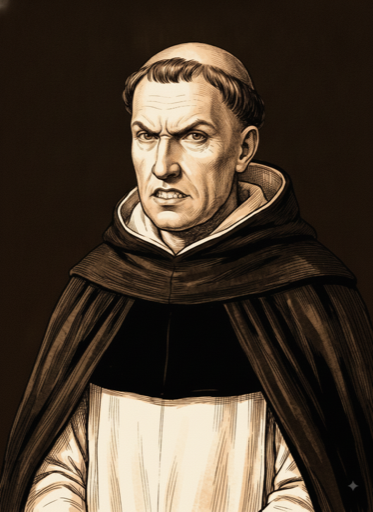
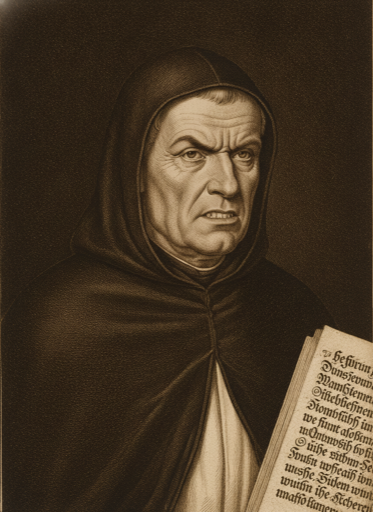
Fix portrait distinctiveness for #569's three deferred clusters
Grounds abulafia, al-hallaj, arabi, khaldun, eckhart, and llull in
concrete biographical props/traits, the same pattern #558 used for its
severe cluster. Regenerates all three reactions per member, fixing two
recurring failure modes along the way: a vignette regression that
survived pre-existing anti-vignette wording (fixed with a more
explicit clause plus a retry for arabi), and a `thinking` reaction
reading too close to baseline for al-hallaj, arabi, and eckhart (fixed
with an explicit head-turn pose, with eckhart needing a second pass).

Closes #569

diff --git a/scripts/fix-569-portrait-distinctiveness.js b/scripts/fix-569-portrait-distinctiveness.js
@@ -1,0 +1,164 @@
+'use strict';
+
+// #569 — the three moderate-severity clusters #558 identified but deferred
+// (see that issue's changelog entry, STYLE_GUIDE.md, 2026-09-10): abulafia/
+// al-hallaj, arabi/khaldun, eckhart/llull. Same root cause as #558 — BATCH-
+// 1-PROMPTS.md's "Character study" tier template gives most of these six
+// members only attire + a mood adjective ("turban and formal robes...
+// composed expression") with no physical/facial or biographical detail to
+// differentiate on, so members sharing an era/profession/attire converge.
+//
+// Scoping pass (done before writing this script, not just asserted): pulled
+// all 38 base portraits and looked at these six side-by-side plus their
+// immediate roster neighbors. arabi/khaldun was the clearest case — same
+// turban wrap, same pose, same shoulder drape, near-identical structure.
+// abulafia/al-hallaj already read somewhat apart (skullcap+hood-up vs.
+// loose hair+hood-down) but still share the generic "old bearded ascetic in
+// a dark robe" register the fix below sharpens into two actually-different
+// biographical registers. eckhart/llull share a tonsure+clean-shaven+hood
+// silhouette the fix below breaks with a concrete unique prop each. Bruno
+// was checked too (the issue names him only as color for why Eckhart's
+// register reads generic) but already has a cap+beard silhouette distinct
+// from both Eckhart and Llull — left untouched, not part of this fix.
+//
+// Same device WAVE-4-PROMPTS.md established for character-study figures
+// with no photographic likeness (Böhme's awl, Paracelsus's sword hilt): one
+// concrete prop or physical detail grounded in real, documented biography,
+// not invented —
+//   - abulafia: a Hebrew-letter-permutation scroll, for the founder of
+//     "prophetic" Kabbalah's signature meditative technique (Chokhmat
+//     ha-Tzeruf).
+//   - al-hallaj: the patched wool ascetic's cloak (khirqa/muraqqa) Sufi
+//     mendicants wore as a mark of voluntary poverty, replacing the plain
+//     generic robe — distinct register from abulafia's seated scholar.
+//   - arabi: rendered elderly and inwardly absorbed (he wrote his major
+//     visionary works and died at 75 in Damascus) rather than the young,
+//     outward-facing figure in the current portrait — a wandering mystic's
+//     register.
+//   - khaldun: a seal-ring/sealed scroll of appointment, for the career
+//     statesman who served as Grand Qadi of Cairo and personally negotiated
+//     with Tamerlane outside besieged Damascus in 1401 — a worldly
+//     official's register, the deliberate opposite of arabi's.
+//   - eckhart: an open manuscript page in Middle High German (not Latin) —
+//     he broke scholastic convention by preaching/writing in the vernacular,
+//     the same "lacks a concrete detail" gap the issue named explicitly.
+//   - llull: a diagram of his own "Ars Magna" combinatorial wheel —
+//     concentric lettered circles, the device he actually invented and is
+//     uniquely known for, a stronger anchor than eckhart's manuscript.
+//
+// Composition suffix carries #558's own anti-vignette correction
+// (fix-558-vignette-fixup.js) from the start, rather than repeating that
+// regression here.
+//
+// Same structure as fix-558-portrait-distinctiveness.js: generate a new
+// base, then regenerate the three reactions anchored to the NEW base
+// candidate (not yet promoted). Candidates land in
+// public/portraits/candidates/ for human review — this script never
+// promotes.
+//
+// Usage: node scripts/fix-569-portrait-distinctiveness.js [memberId ...]
+//   (no args runs all six; pass one or more of abulafia/al-hallaj/arabi/
+//   khaldun/eckhart/llull to run a subset)
+
+require('dotenv').config();
+const fs = require('fs');
+const path = require('path');
+const { generatePortraitImage, buildReactionPrompt, REACTION_TYPES } = require('../src/portrait-generation');
+
+const ROOT = path.join(__dirname, '..');
+const PORTRAITS_DIR = path.join(ROOT, 'public', 'portraits');
+const CANDIDATES_DIR = path.join(PORTRAITS_DIR, 'candidates');
+
+// Same anti-vignette wording #558's vignette follow-up corrected into the
+// base prompt — carried forward here from the start.
+const COMPOSITION_SUFFIX =
+  'Head-and-shoulders, period-appropriate dress, plain dark unornamented background — no scene elements, no furniture, no bookshelves, no architectural detail. The background must be a single flat dark tone filling the frame completely edge to edge — no vignette, no radial gradient, no lightening or spotlight halo toward the corners or edges; the corners must be exactly as dark as the area immediately around the subject. Visible linework and texture (engraving/ink-wash register), not photorealistic or cartoon/flat-vector. Limited warm sepia/candlelit palette. Portrait orientation (taller than wide).';
+
+const MEMBERS = {
+  abulafia: {
+    subject:
+      "Warm, etching-adjacent portrait of Abraham Abulafia, Sephardi Kabbalist, 13th century — head-and-shoulders, plain dark robe and skullcap appropriate to a medieval Jewish scholar of Aragon/Castile, an elderly, deeply lined, ascetic face. A parchment scroll inscribed with a circular arrangement of Hebrew letters held or visible at the frame's edge — a concrete trade marker for the founder of 'prophetic' Kabbalah's signature technique of Hebrew letter permutation (Chokhmat ha-Tzeruf), not a generic old scholar. Intense, inward, unflinching expression.",
+  },
+  'al-hallaj': {
+    subject:
+      "Warm, etching-adjacent portrait of Husayn ibn Mansur al-Hallaj, Persian Sufi mystic, 9th/10th century — head-and-shoulders, a coarse, visibly patched woolen cloak (the muraqqa/khirqa worn by wandering Sufi ascetics as a mark of voluntary poverty) rather than a plain scholar's robe, unbound tangled hair and beard consistent with an itinerant mendicant rather than a settled cleric. Direct, unflinching, ecstatic-adjacent gaze — the bearing of a man who declared 'Ana al-Haqq' ('I am the Truth') and would not recant it.",
+  },
+  arabi: {
+    subject:
+      "Warm, etching-adjacent portrait of Muhyiddin Ibn Arabi, Andalusian-then-Damascene Sufi mystic and philosopher, early 13th century — head-and-shoulders, simple turban and a plain mystic's robe (not the more formal, structured dress of a court official), an elderly, gaunt, deeply inward face — he wrote his major visionary works late in life and died at 75 in Damascus, an old man given to solitary mystical absorption rather than public life. Eyes slightly unfocused, gaze turned inward past the viewer rather than meeting it directly — mid-vision, not mid-conversation.",
+  },
+  khaldun: {
+    subject:
+      "Warm, etching-adjacent portrait of Ibn Khaldun, North African/Andalusian historian and statesman, 14th century — head-and-shoulders, the more formal, structured turban and richly bordered robes of a Mamluk-era chief judge (he served as Grand Qadi of the Maliki school in Cairo), a heavy official seal-ring or a sealed scroll of appointment visible at the frame's edge — a concrete trade marker for a career statesman and diplomat who personally negotiated with Tamerlane outside besieged Damascus in 1401, not a generic robed scholar. Composed, shrewd, worldly expression, direct engagement with the viewer rather than inward absorption.",
+  },
+  eckhart: {
+    subject:
+      "Warm, etching-adjacent portrait of Meister Eckhart, German Dominican friar and mystical theologian, early 14th century — head-and-shoulders, Dominican habit (white tunic, black scapular and cappa, hood), the bearing of a senior churchman who administered an entire province (Vicar-General of Bohemia) rather than a cloistered contemplative. An open manuscript page bearing visible Middle High German script (not Latin) held or visible at the frame's edge — a concrete trade marker for a scholastic theologian who broke convention by preaching and writing in vernacular German rather than the Latin of his order. Composed, level, unflinching gaze, appropriate to a man who defended his propositions before an inquisition rather than recanting.",
+  },
+  llull: {
+    subject:
+      "Warm, etching-adjacent portrait of Ramon Llull, Majorcan philosopher and mystic, 13th/14th century — head-and-shoulders, plain religious tertiary's habit (post-conversion, not courtly dress), weathered elderly face. A diagram of his own combinatorial 'Ars Magna' — concentric wheels marked with lettered divisions — sketched or visible at the frame's edge, a concrete trade marker unique to him among the set, the device he actually invented to mechanically generate theological and philosophical propositions. Contemplative, faintly evangelistic expression, the bearing of a man who tried repeatedly to carry this system in person to the Islamic world.",
+  },
+};
+
+function buildBasePrompt(id) {
+  return `${MEMBERS[id].subject} ${COMPOSITION_SUFFIX}`;
+}
+
+async function generateMember(apiKey, id) {
+  console.log(`[${id}] Generating distinctiveness-revised base portrait...`);
+  const baseBuffer = await generatePortraitImage({ apiKey, prompt: buildBasePrompt(id) });
+  fs.writeFileSync(path.join(CANDIDATES_DIR, `${id}.png`), baseBuffer);
+  console.log(`[${id}]   done (${baseBuffer.length} bytes) -> public/portraits/candidates/${id}.png`);
+
+  const baseReferenceImages = [{ mimeType: 'image/png', data: baseBuffer }];
+  for (const reaction of REACTION_TYPES) {
+    const candidateId = `${id}-${reaction}`;
+    process.stdout.write(`[${id}] Generating ${reaction}... `);
+    const buffer = await generatePortraitImage({
+      apiKey,
+      prompt: buildReactionPrompt(reaction, id),
+      referenceImages: baseReferenceImages,
+    });
+    fs.writeFileSync(path.join(CANDIDATES_DIR, `${candidateId}.png`), buffer);
+    console.log(`done (${buffer.length} bytes) -> public/portraits/candidates/${candidateId}.png`);
+  }
+}
+
+async function main() {
+  const apiKey = process.env.GEMINI_API_KEY;
+  if (!apiKey) {
+    console.error('GEMINI_API_KEY not set — cannot generate real portrait candidates.');
+    process.exit(1);
+  }
+
+  const requested = process.argv.slice(2);
+  const ids = requested.length > 0 ? requested : Object.keys(MEMBERS);
+  for (const id of ids) {
+    if (!MEMBERS[id]) {
+      console.error(`Unknown member id: ${id} (expected one of ${Object.keys(MEMBERS).join(', ')})`);
+      process.exit(1);
+    }
+  }
+
+  fs.mkdirSync(CANDIDATES_DIR, { recursive: true });
+
+  for (const id of ids) {
+    await generateMember(apiKey, id);
+  }
+
+  console.log(
+    '\nNext: review each candidate in public/portraits/candidates/ against the rest of the roster and STYLE_GUIDE.md, then promote with:'
+  );
+  for (const id of ids) {
+    console.log(`  node scripts/promote-portrait.js ${id} --force`);
+    for (const reaction of REACTION_TYPES) {
+      console.log(`  node scripts/promote-portrait.js ${id}-${reaction} --force`);
+    }
+  }
+}
+
+main().catch(err => {
+  console.error('Script error:', err);
+  process.exit(1);
+});

diff --git a/scripts/fix-569-vignette-fixup.js b/scripts/fix-569-vignette-fixup.js
@@ -1,0 +1,114 @@
+'use strict';
+
+// #569 follow-up: al-hallaj and arabi's regenerated base portraits (from
+// fix-569-portrait-distinctiveness.js) came back with a pronounced radial
+// vignette — a brighter halo hugging the head/shoulders that darkens toward
+// all four corners. Confirmed by side-by-side comparison against the rest of
+// the roster and against this same script's other four #569 members
+// (abulafia, khaldun, eckhart, llull all came back flat). The vignette
+// propagated into all three reaction images for both members too, via the
+// same referenceImages/match-the-background mechanism #558's vignette-fixup
+// documented (fix-558-vignette-fixup.js).
+//
+// Notable difference from #558's case: fix-569-portrait-distinctiveness.js's
+// COMPOSITION_SUFFIX already carried an anti-vignette clause from the start
+// (copied verbatim from fix-558-vignette-fixup.js's fix) — unlike #558's
+// first pass, which was missing the clause entirely. It still wasn't
+// reliable for 2 of 6 members here, so this isn't a "clause was missing"
+// bug, just generation variance the clause doesn't fully suppress. Re-reading
+// the old wording, it's also arguably ambiguous about the actual failure
+// shape: it bans "lightening... toward the corners," but the real defect is
+// the opposite direction — a brighter halo AROUND THE SUBJECT that darkens
+// OUTWARD toward the corners, i.e. a classic photographic vignette. The
+// clause below restates the same ban in that explicit shape instead of
+// relying on the word "vignette" alone to carry it.
+//
+// Same subject text as fix-569-portrait-distinctiveness.js, unchanged — this
+// is a background-only regeneration, not a re-grounding.
+//
+// Usage: node scripts/fix-569-vignette-fixup.js [memberId ...]
+//   (no args runs both; pass al-hallaj and/or arabi to run a subset)
+
+require('dotenv').config();
+const fs = require('fs');
+const path = require('path');
+const { generatePortraitImage, buildReactionPrompt, REACTION_TYPES } = require('../src/portrait-generation');
+
+const ROOT = path.join(__dirname, '..');
+const CANDIDATES_DIR = path.join(ROOT, 'public', 'portraits', 'candidates');
+
+const COMPOSITION_SUFFIX =
+  "Head-and-shoulders, period-appropriate dress, plain dark unornamented background — no scene elements, no furniture, no bookshelves, no architectural detail. The background must be a single flat, uniformly dark tone filling the frame completely, corner to corner. Do not render a vignette, radial gradient, or spotlight/halo effect of any kind — specifically, no brighter glow or lightening immediately behind or around the subject's head and shoulders that fades to a darker tone toward the corners or edges. Every region of the background, from directly behind the subject to all four corners, must be the same flat dark value; the corners must not be darker than the area around the subject. Visible linework and texture (engraving/ink-wash register), not photorealistic or cartoon/flat-vector. Limited warm sepia/candlelit palette. Portrait orientation (taller than wide).";
+
+const MEMBERS = {
+  'al-hallaj': {
+    subject:
+      "Warm, etching-adjacent portrait of Husayn ibn Mansur al-Hallaj, Persian Sufi mystic, 9th/10th century — head-and-shoulders, a coarse, visibly patched woolen cloak (the muraqqa/khirqa worn by wandering Sufi ascetics as a mark of voluntary poverty) rather than a plain scholar's robe, unbound tangled hair and beard consistent with an itinerant mendicant rather than a settled cleric. Direct, unflinching, ecstatic-adjacent gaze — the bearing of a man who declared 'Ana al-Haqq' ('I am the Truth') and would not recant it.",
+  },
+  arabi: {
+    subject:
+      "Warm, etching-adjacent portrait of Muhyiddin Ibn Arabi, Andalusian-then-Damascene Sufi mystic and philosopher, early 13th century — head-and-shoulders, simple turban and a plain mystic's robe (not the more formal, structured dress of a court official), an elderly, gaunt, deeply inward face — he wrote his major visionary works late in life and died at 75 in Damascus, an old man given to solitary mystical absorption rather than public life. Eyes slightly unfocused, gaze turned inward past the viewer rather than meeting it directly — mid-vision, not mid-conversation.",
+  },
+};
+
+function buildBasePrompt(id) {
+  return `${MEMBERS[id].subject} ${COMPOSITION_SUFFIX}`;
+}
+
+async function generateMember(apiKey, id) {
+  console.log(`[${id}] Regenerating base portrait with strengthened anti-vignette background...`);
+  const baseBuffer = await generatePortraitImage({ apiKey, prompt: buildBasePrompt(id) });
+  fs.writeFileSync(path.join(CANDIDATES_DIR, `${id}.png`), baseBuffer);
+  console.log(`[${id}]   done (${baseBuffer.length} bytes) -> public/portraits/candidates/${id}.png`);
+
+  const baseReferenceImages = [{ mimeType: 'image/png', data: baseBuffer }];
+  for (const reaction of REACTION_TYPES) {
+    const candidateId = `${id}-${reaction}`;
+    process.stdout.write(`[${id}] Generating ${reaction}... `);
+    const buffer = await generatePortraitImage({
+      apiKey,
+      prompt: buildReactionPrompt(reaction, id),
+      referenceImages: baseReferenceImages,
+    });
+    fs.writeFileSync(path.join(CANDIDATES_DIR, `${candidateId}.png`), buffer);
+    console.log(`done (${buffer.length} bytes) -> public/portraits/candidates/${candidateId}.png`);
+  }
+}
+
+async function main() {
+  const apiKey = process.env.GEMINI_API_KEY;
+  if (!apiKey) {
+    console.error('GEMINI_API_KEY not set — cannot generate real portrait candidates.');
+    process.exit(1);
+  }
+
+  const requested = process.argv.slice(2);
+  const ids = requested.length > 0 ? requested : Object.keys(MEMBERS);
+  for (const id of ids) {
+    if (!MEMBERS[id]) {
+      console.error(`Unknown member id: ${id} (expected one of ${Object.keys(MEMBERS).join(', ')})`);
+      process.exit(1);
+    }
+  }
+
+  fs.mkdirSync(CANDIDATES_DIR, { recursive: true });
+
+  for (const id of ids) {
+    await generateMember(apiKey, id);
+  }
+
+  console.log(
+    '\nNext: review each candidate in public/portraits/candidates/ against the rest of the roster, then promote with:'
+  );
+  for (const id of ids) {
+    console.log(`  node scripts/promote-portrait.js ${id} --force`);
+    for (const reaction of REACTION_TYPES) {
+      console.log(`  node scripts/promote-portrait.js ${id}-${reaction} --force`);
+    }
+  }
+}
+
+main().catch(err => {
+  console.error('Script error:', err);
+  process.exit(1);
+});

diff --git a/scripts/fix-569-thinking-fixup.js b/scripts/fix-569-thinking-fixup.js
@@ -1,0 +1,85 @@
+'use strict';
+
+// #569 follow-up: the plain `thinking` reaction from
+// fix-569-portrait-distinctiveness.js (and, for al-hallaj/arabi, the
+// subsequent fix-569-vignette-fixup.js regeneration) read too close to each
+// member's neutral base for three of the six #569 members — the same
+// recurring failure #558 hit and fixed in fix-558-thinking-fixup.js:
+// `REACTION_EXPRESSIONS.thinking`'s eyes-averted/brow-furrowed wording alone
+// isn't always enough and needs a concrete physical pose layered on top.
+// Reapplying that same pattern here rather than guessing at new wording.
+//
+// abulafia, khaldun, and llull's `thinking` candidates already showed a
+// genuine head-turn/averted gaze on the first pass and are not touched here.
+//
+// Regenerates ONLY the `thinking` candidate for each of these three #569
+// members, anchored to the base candidate already sitting in
+// public/portraits/candidates/ (does not touch base/happy/angry).
+//
+// Usage: node scripts/fix-569-thinking-fixup.js [memberId ...]
+
+require('dotenv').config();
+const fs = require('fs');
+const path = require('path');
+const {
+  generatePortraitImage,
+  REACTION_EXPRESSION_OVERRIDE_META,
+  REACTION_STYLE_SUFFIX,
+} = require('../src/portrait-generation');
+
+const ROOT = path.join(__dirname, '..');
+const CANDIDATES_DIR = path.join(ROOT, 'public', 'portraits', 'candidates');
+
+// al-hallaj and eckhart have a hand already occupied in the base (cloak
+// gathered at the chest, manuscript held up) so get a head-turn + averted
+// gaze rather than a hand-to-chin gesture that would ask the hand to
+// relocate. arabi's base is already inward/unfocused by design, so his pose
+// pushes further into an actual head-turn + downcast eyes rather than
+// relying on the base's already-inward gaze to read as a distinct reaction.
+const THINKING_POSE = {
+  'al-hallaj':
+    'A genuine head-turn to one side, eyes cast into the middle distance, away from the viewer, brow drawn in concentration — visibly turned inward, not posed toward camera.',
+  arabi:
+    'A more pronounced head-turn to one side than his usual bearing, eyes cast downward and away from the viewer, brow slightly drawn — visibly absorbed in thought, not merely his usual distant gaze repeated.',
+  eckhart:
+    'The head rotated a full three-quarters to one side, face turned well away from the viewer toward the manuscript page — not a near-frontal face with only the eyes diverted, an actual rotation of the head and hood on the neck — eyes lowered onto the page, brow drawn, visibly re-reading or puzzling over a passage.',
+};
+
+function buildThinkingFixupPrompt(id) {
+  return `${REACTION_EXPRESSION_OVERRIDE_META} Expression and pose: ${THINKING_POSE[id]} ${REACTION_STYLE_SUFFIX}`;
+}
+
+async function main() {
+  const apiKey = process.env.GEMINI_API_KEY;
+  if (!apiKey) {
+    console.error('GEMINI_API_KEY not set — cannot generate real portrait candidates.');
+    process.exit(1);
+  }
+
+  const requested = process.argv.slice(2);
+  const ids = requested.length > 0 ? requested : Object.keys(THINKING_POSE);
+  for (const id of ids) {
+    if (!THINKING_POSE[id]) {
+      console.error(`Unknown member id: ${id} (expected one of ${Object.keys(THINKING_POSE).join(', ')})`);
+      process.exit(1);
+    }
+  }
+
+  for (const id of ids) {
+    const basePath = path.join(CANDIDATES_DIR, `${id}.png`);
+    if (!fs.existsSync(basePath)) {
+      console.error(`  No base candidate found at ${path.relative(ROOT, basePath)} — skipping ${id}`);
+      continue;
+    }
+    const referenceImages = [{ mimeType: 'image/png', data: fs.readFileSync(basePath) }];
+    process.stdout.write(`[${id}] Regenerating thinking with explicit pose... `);
+    const buffer = await generatePortraitImage({ apiKey, prompt: buildThinkingFixupPrompt(id), referenceImages });
+    fs.writeFileSync(path.join(CANDIDATES_DIR, `${id}-thinking.png`), buffer);
+    console.log(`done (${buffer.length} bytes) -> public/portraits/candidates/${id}-thinking.png`);
+  }
+}
+
+main().catch(err => {
+  console.error('Script error:', err);
+  process.exit(1);
+});

diff --git a/public/portraits/STYLE_GUIDE.md b/public/portraits/STYLE_GUIDE.md
@@ -33,6 +33,7 @@ AI-generated, proof-of-concept register for this stage of the project. Not commi
 
 ## Changelog
 
+- 2026-09-14 — [#569](https://github.com/msdixon/secret-cabinet/issues/569): the three moderate-severity distinctiveness clusters [#558](https://github.com/msdixon/secret-cabinet/issues/558) deferred — abulafia/al-hallaj, arabi/khaldun, eckhart/llull (Bruno, named only as context in the issue, already reads distinct and was left untouched) — fixed the same way as #558's severe cluster: a concrete, real, documented biographical prop or physical trait per member rather than an invented one (`scripts/fix-569-portrait-distinctiveness.js`). Abulafia got a Hebrew-letter-permutation scroll (his signature Chokhmat ha-Tzeruf technique); al-hallaj a patched Sufi ascetic's cloak (khirqa/muraqqa) replacing a generic robe; arabi rendered elderly and inwardly absorbed rather than young and outward-facing (he wrote his major visionary works and died at 75 in Damascus); khaldun a seal-ring/sealed scroll of appointment (Grand Qadi of Cairo, negotiated with Tamerlane in 1401); eckhart an open Middle High German manuscript page (he broke scholastic convention by preaching in the vernacular); llull a diagram of his own Ars Magna combinatorial wheel. All three reactions regenerated per member, anchored to each new base. Two recurring failure modes from #558 resurfaced here, both worth noting since neither was fully solved by carrying forward #558's own fix: **(1) vignette regression despite the composition suffix already including anti-vignette wording from the start** (copied verbatim from `fix-558-vignette-fixup.js`, unlike #558's own first pass which lacked it entirely) — al-hallaj and arabi's regenerated bases still came back with a bright halo around the subject darkening toward the corners. Rewording the clause to name the actual defect shape explicitly (a halo around the subject, not "lightening toward the corners" as the original ambiguously put it) fixed al-hallaj on the first retry, but arabi needed a second regeneration attempt with the identical reworded prompt before it resolved — confirming a real stochastic component to this failure mode, not purely a wording gap (`scripts/fix-569-vignette-fixup.js`). **(2) The `thinking` reaction read too close to the member's own neutral base** for al-hallaj, arabi, and eckhart specifically (not abulafia, khaldun, or llull, which showed genuine head-turn/averted-gaze differentiation on the first pass) — the same member-dependent gap #558's `fix-558-thinking-fixup.js` and #450 batch 3 both hit before. Fixed by layering an explicit physical pose (head-turn, gaze cast away) onto the expression text via `REACTION_EXPRESSION_OVERRIDE_META`/`REACTION_STYLE_SUFFIX` (`scripts/fix-569-thinking-fixup.js`). Al-hallaj and arabi resolved on the first pass; eckhart's first attempt still read as a near-frontal face with only the eyes diverted rather than an actual head rotation, and needed a second pass with more explicit "rotate the head, not just the eyes" wording before the turn read clearly. All 24 candidates (6 members × base + 3 reactions) confirmed on review against the rest of the roster and promoted.
 - 2026-09-10 — [#558](https://github.com/msdixon/secret-cabinet/issues/558) human review: Rachel reviewed the five-member batch fix below directly (not just the vignette follow-up) and split it three ways. Scholem and Pauli confirmed as-is, no further changes. Dion Fortune's prop-based fix (a Tree of Life diagram at the frame's edge) was rejected as "hokey" — but unlike the other two rejected members, a real reference photo turned out to exist for her (Wikidata [Q260670](https://www.wikidata.org/wiki/Q260670), a plain public-domain circa-1920s-30s studio portrait on Wikimedia Commons), so she was regenerated grounded in it instead of reverted: center-parted bob-length hair, straight eyebrows, a dark high-necked jumper over a white collar and tie — a tailored, androgynous look distinct from the "refined Englishwoman" register the rejected prompt used — replacing the diagram prop entirely (`scripts/fix-558-fortune-regrounding.js`, following the vignette follow-up's corrected anti-vignette composition suffix from the start; candidates generated, visually confirmed against the roster and the reference photo, approved by Rachel, and promoted). Corbin's manuscript-page prop and Frieda Harris's tarot-card/paintbrush prop were both rejected as hokey with no equivalent photo available, and reverted to their pre-#558 portraits (base + all three reactions each) — filed as [#574](https://github.com/msdixon/secret-cabinet/issues/574) for a real (non-prop) fix.
 - 2026-09-10 — [#558](https://github.com/msdixon/secret-cabinet/issues/558) follow-up: Scholem's and Pauli's regenerated base portraits (below) came back with a pronounced radial vignette — a dark oval halo hugging the head/shoulders lightening sharply to a bright cream tone in all four corners, visibly different from the rest of the roster's flat edge-to-edge background (e.g. `jung.png`, `corbin.png`). Root cause: the #558 fix's base-portrait composition suffix said only "plain dark unornamented background," missing the explicit "no vignette or gradient, matte and uniform edge to edge" clause `REACTION_STYLE_SUFFIX` (`src/portrait-generation.js`) already carries since the #450 batch-2 fix documented the same failure mode there. The three reaction images inherited the same vignette despite that existing ban, because they were anchored via `referenceImages` to the already-vignetted base with an instruction to match its background exactly — the match-reference clause outweighed the ban. Fixed by regenerating base + all three reactions for both members (`scripts/fix-558-vignette-fixup.js`), appending an explicit anti-vignette clause to the base prompt itself (subject/distinguishing-detail text unchanged from the #558 fix below). Confirmed on review: both bases and all six reactions now hold one flat dark tone corner-to-corner, matching the rest of the roster, with likeness and expression unaffected.
 - 2026-09-10 — [#558](https://github.com/msdixon/secret-cabinet/issues/558): audited all 38 base portraits side-by-side for cross-member visual *distinctiveness* — distinct from [#541](https://github.com/msdixon/secret-cabinet/issues/541)/[#546](https://github.com/msdixon/secret-cabinet/issues/546)'s likeness-*accuracy*-against-a-real-photo work, this is about whether members with no shared reference photo still read as visibly different people from each other. Root cause: [BATCH-1-PROMPTS.md](BATCH-1-PROMPTS.md)'s "Photographed" tier template gives most members only attire + mood ("glasses, formal suit, thoughtful reserved expression") with zero physical/facial description, so two members sharing an era/profession/attire had nothing for the generator to differentiate on. Five members converged most severely: corbin, scholem, and pauli (all "glasses, formal suit, [adjective] expression," near-identical structure) and frieda-harris/dion-fortune (both "refined/formal Englishwoman... period dress" with no distinguishing feature). Fixed at the prompt level (text-only — deliberately not the `referenceImages`/`buildLikenessAnchoredBasePrompt` anchoring mechanism #541/#546 used) via `scripts/fix-558-portrait-distinctiveness.js`: each of the five got a concrete, non-generic distinguishing detail grounded in real documented facts rather than invented — Scholem's and Pauli's facial descriptions (no glasses on either, contra the original prompts; Scholem's widow's-peak/swept-back hair; Pauli's heavy-set jowls and receded hairline) came from directly inspecting their real photographs (Wikimedia Commons for Scholem; the same `public/portraits/likeness-refs/pauli.jpg` already sourced for #546, read for description only — Pauli's base portrait itself is NOT anchored to it, since Rachel explicitly rejected that as a base-portrait anchor during #546's review); Corbin, Harris, and Fortune have no readily available plain photo, so their differentiation instead comes from a concrete biographical trade-marker prop, the same device [WAVE-4-PROMPTS.md](WAVE-4-PROMPTS.md) already established for character-study figures (Böhme's awl, Paracelsus's sword hilt) — Corbin's Perso-Arabic manuscript (decades translating Islamic mystical philosophy between Paris, Istanbul, and Tehran), Harris's paintbrush and painted tarot card (she personally painted all 78 Thoth Tarot cards), Fortune's Tree of Life diagram (founder of the Society of the Inner Light, author of *The Mystical Qabalah*). All three reactions regenerated per member, anchored to each new base. The `thinking` reaction needed a second pass across all five — read too close to each member's own neutral base on the first try, the same recurring failure [#450](https://github.com/msdixon/secret-cabinet/issues/450) batch 3 already documented for three of these same members (corbin, frieda-harris, dion-fortune) against their old base portraits; fixed the same way, layering an explicit physical pose (head-turn, gaze cast away from the viewer) on top of the expression text (`scripts/fix-558-thinking-fixup.js`). Confirmed on review: all five read clearly distinct from each other and from neighboring roster members (adorno, jung, warburg, blavatsky, moina-mathers, yates) in a side-by-side comparison. Deliberately deferred, not fixed in this pass: three moderate-severity clusters (abulafia/al-hallaj, arabi/khaldun, eckhart/llull) that share the same generic-template root cause but read as a smaller gap — filed as [#569](https://github.com/msdixon/secret-cabinet/issues/569) for a follow-up pass. `draftPortraitPrompt` (`src/routes/member.js`, the automated new-member prompt-drafting flow since #259/#435) already requires one concrete visual distinguishing detail, so this root cause is concentrated in legacy batch-1 content, not an ongoing risk for members added going forward.

diff --git a/docs/status/fragments/569-portrait-distinctiveness-clusters.md b/docs/status/fragments/569-portrait-distinctiveness-clusters.md
@@ -1,0 +1,1 @@
+[#569](https://github.com/msdixon/secret-cabinet/issues/569): fixed the three moderate-severity portrait-convergence clusters [#558](https://github.com/msdixon/secret-cabinet/issues/558) deferred (abulafia/al-hallaj, arabi/khaldun, eckhart/llull) with the same grounded-detail pattern, regenerating base + all three reactions for each of the 6 members. Hit both of #558's known regressions again along the way — a vignette that survived even with anti-vignette wording already in the prompt (needed a reworded clause plus a stochastic retry for one member), and a `thinking` reaction reading too close to baseline for three of the six members (needed an explicit head-turn pose layered on top, with eckhart needing a second, more explicit pass) — documented in [STYLE_GUIDE.md](../../../public/portraits/STYLE_GUIDE.md)'s Changelog.
